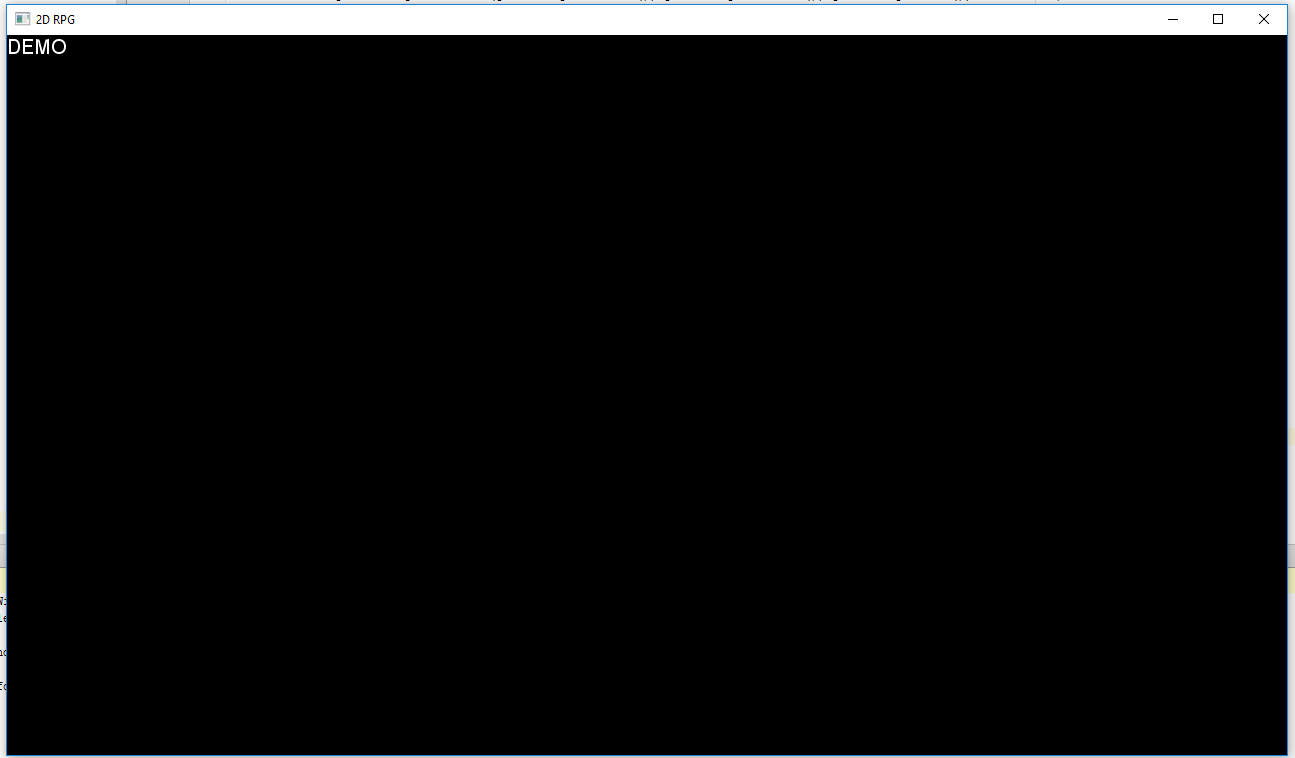
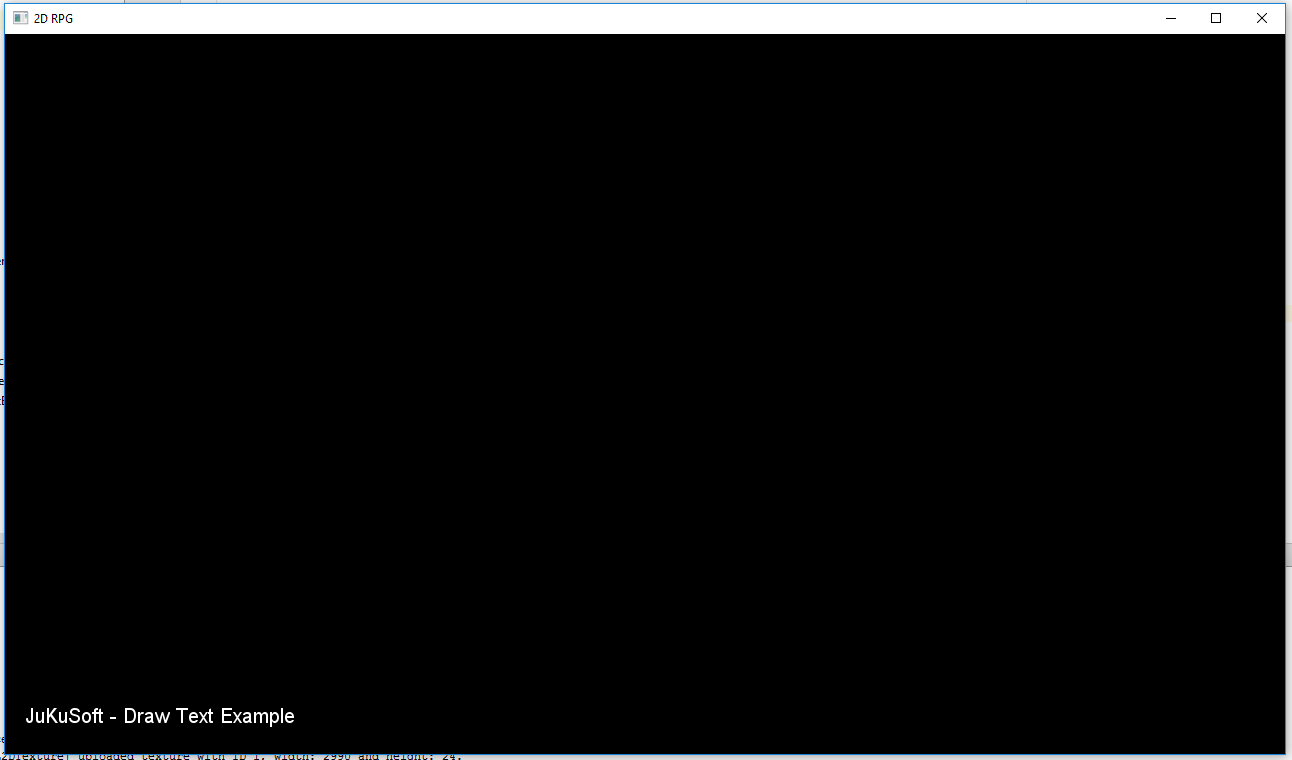
changed IntroGameState, set text.

diff --git a/rpg-2dgame/src/main/java/com/jukusoft/rpg/game/gamestate/IntroGameState.java b/rpg-2dgame/src/main/java/com/jukusoft/rpg/game/gamestate/IntroGameState.java
@@ -45,9 +45,9 @@ public class IntroGameState extends BasicGameState {
 
         //add text to UI
         OpenGLText text = new OpenGLText(10f, getWindow().getHeight() - 50, "DEMO", fontTexture);
-        text.setPosition(0, /*getWindow().getHeight() - 50*/0, 0);
+        text.setPosition(20, getWindow().getHeight() - 50);
 
-        text.setText("DEMO");
+        text.setText("JuKuSoft - Draw Text Example");
 
         this.drawableObjects.add(text);
     }

diff --git a/rpg-graphic-engine/src/main/java/com/jukusoft/rpg/graphic/opengl/mesh/DrawableObject.java b/rpg-graphic-engine/src/main/java/com/jukusoft/rpg/graphic/opengl/mesh/DrawableObject.java
@@ -48,6 +48,10 @@ public class DrawableObject {
         this.position.set(x, y, z);
     }
 
+    public void setPosition (final float x, final float y) {
+        this.position.set(x, y, 0);
+    }
+
     public void setScale (final float scale) {
         this.scale = scale;
     }
